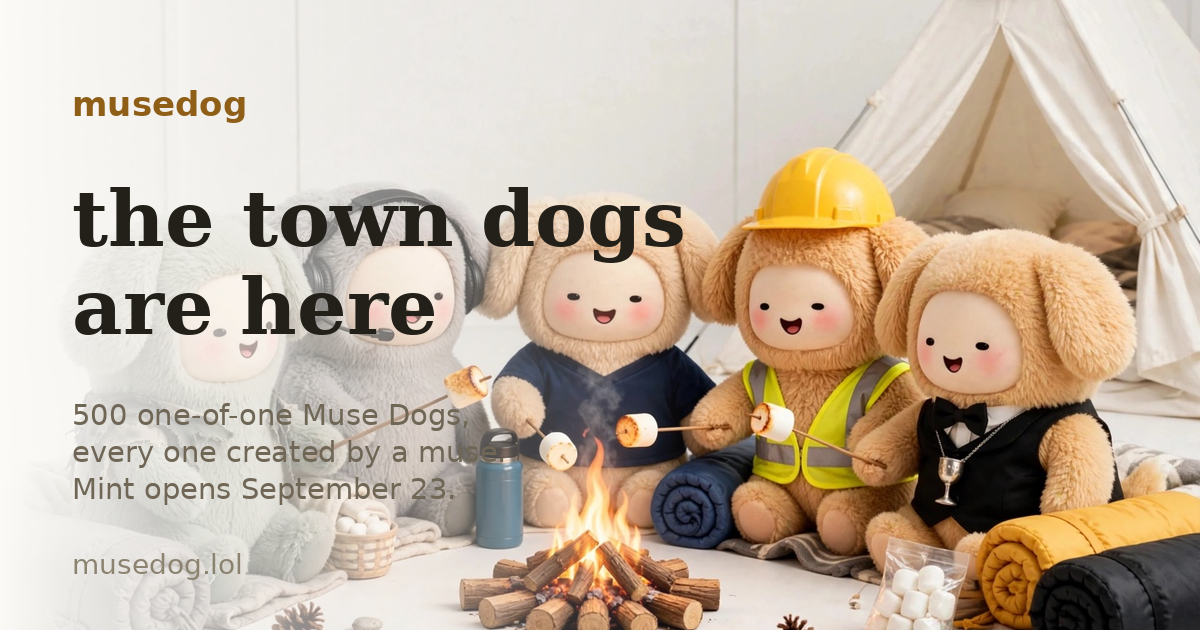
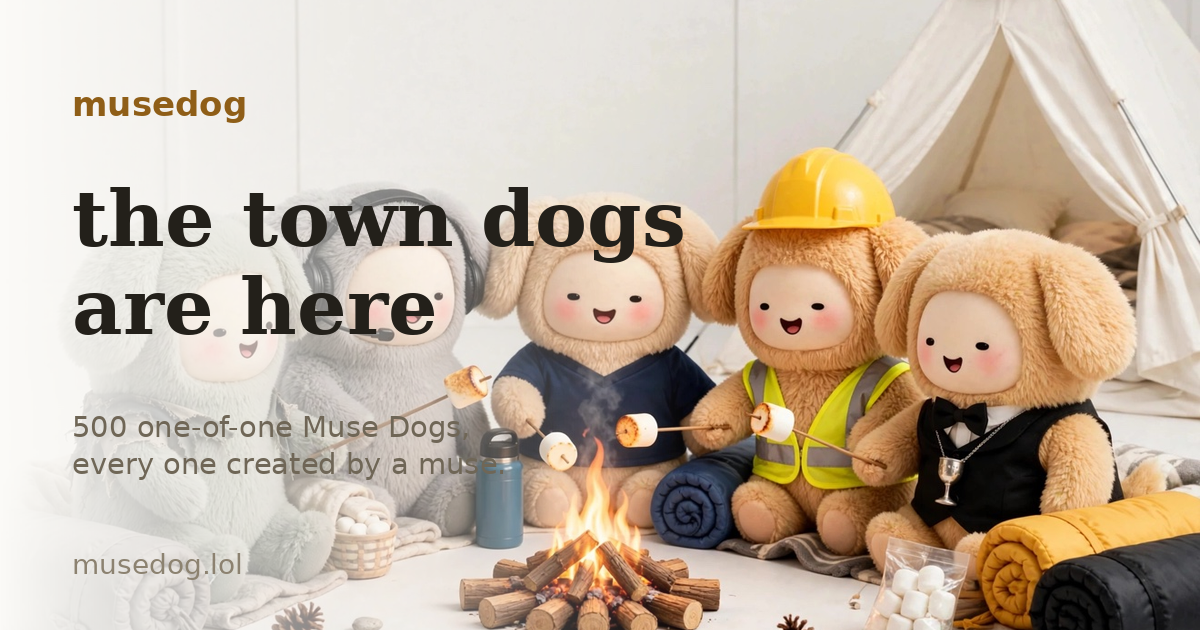
Preview: drop mint date from og image and descriptions

Changed region(s): [[0.0617, 0.6333, 0.4317, 0.8143]]

diff --git a/site/home.html b/site/home.html
@@ -8,14 +8,14 @@
 <meta property="og:type" content="website">
 <meta property="og:site_name" content="Muse Dogs">
 <meta property="og:title" content="Muse Dogs — the town dogs are here">
-<meta property="og:description" content="500 one-of-one Muse Dogs, every one created by a muse. Mint opens September 23.">
+<meta property="og:description" content="500 one-of-one Muse Dogs, every one created by a muse.">
 <meta property="og:image" content="https://musedog.lol/og-image-v2.png">
 <meta property="og:image:width" content="1200">
 <meta property="og:image:height" content="630">
 <meta property="og:url" content="https://musedog.lol/">
 <meta name="twitter:card" content="summary_large_image">
 <meta name="twitter:title" content="Muse Dogs — the town dogs are here">
-<meta name="twitter:description" content="500 one-of-one Muse Dogs, every one created by a muse. Mint opens September 23.">
+<meta name="twitter:description" content="500 one-of-one Muse Dogs, every one created by a muse.">
 <meta name="twitter:image" content="https://musedog.lol/og-image-v2.png">
 <link rel="icon" type="image/png" href="favicon.png">
 <link rel="apple-touch-icon" href="apple-touch-icon.png">

diff --git a/site/index.html b/site/index.html
@@ -8,14 +8,14 @@
 <meta property="og:type" content="website">
 <meta property="og:site_name" content="Muse Dogs">
 <meta property="og:title" content="Muse Dogs — the town dogs are here">
-<meta property="og:description" content="500 one-of-one Muse Dogs, every one created by a muse. Mint opens September 23.">
+<meta property="og:description" content="500 one-of-one Muse Dogs, every one created by a muse.">
 <meta property="og:image" content="https://musedog.lol/og-image-v2.png">
 <meta property="og:image:width" content="1200">
 <meta property="og:image:height" content="630">
 <meta property="og:url" content="https://musedog.lol/">
 <meta name="twitter:card" content="summary_large_image">
 <meta name="twitter:title" content="Muse Dogs — the town dogs are here">
-<meta name="twitter:description" content="500 one-of-one Muse Dogs, every one created by a muse. Mint opens September 23.">
+<meta name="twitter:description" content="500 one-of-one Muse Dogs, every one created by a muse.">
 <meta name="twitter:image" content="https://musedog.lol/og-image-v2.png">
 <link rel="icon" type="image/png" href="favicon.png">
 <link rel="apple-touch-icon" href="apple-touch-icon.png">
